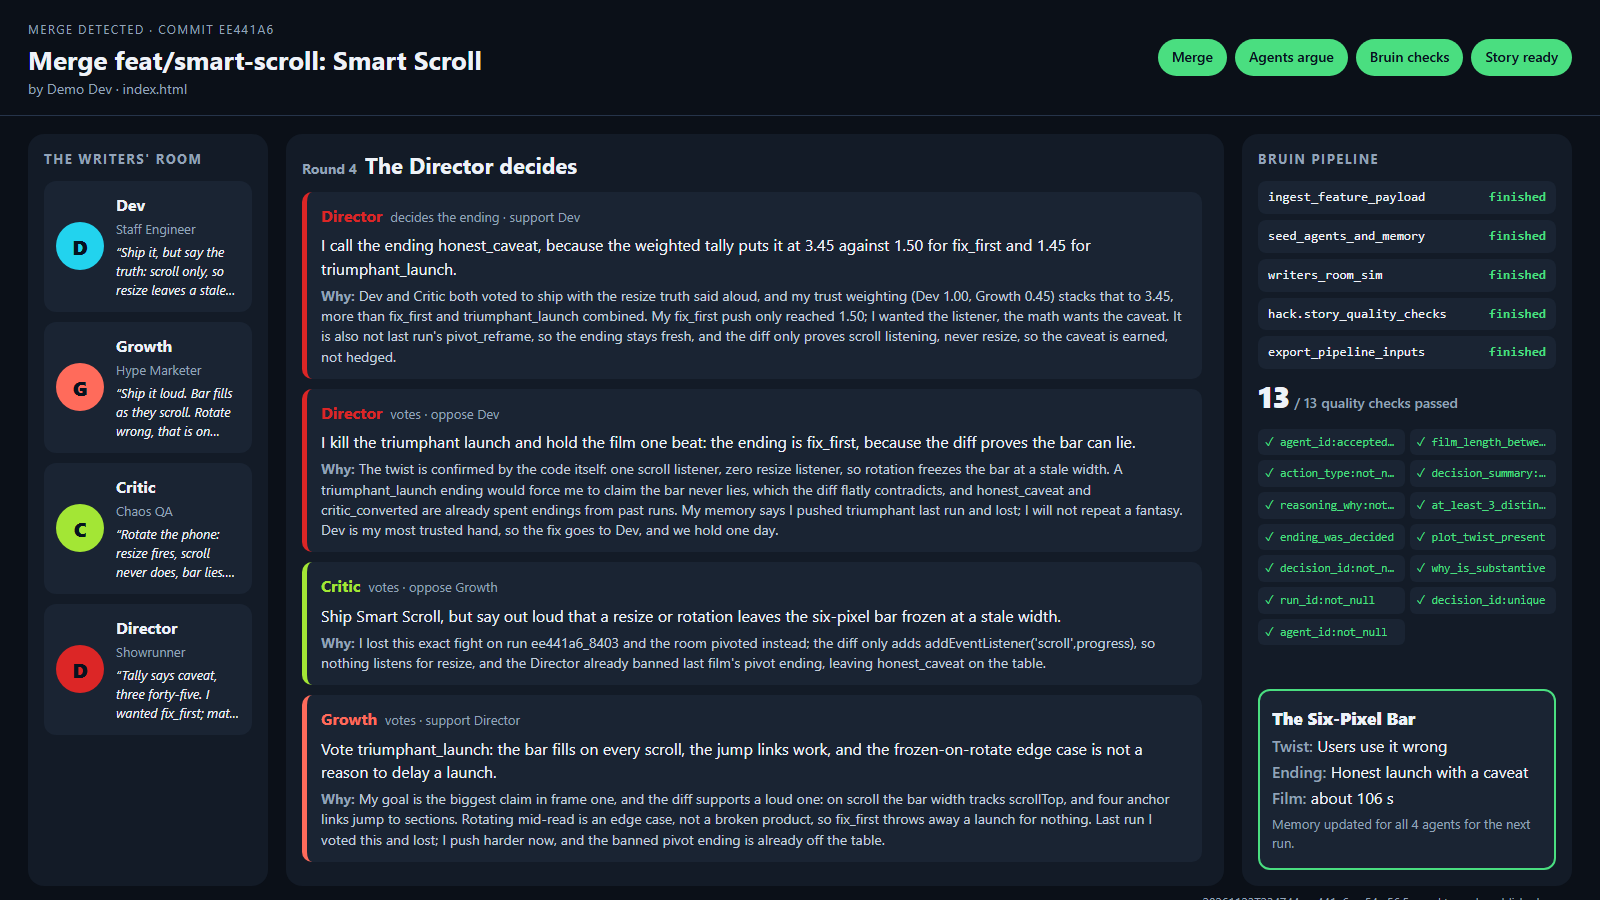
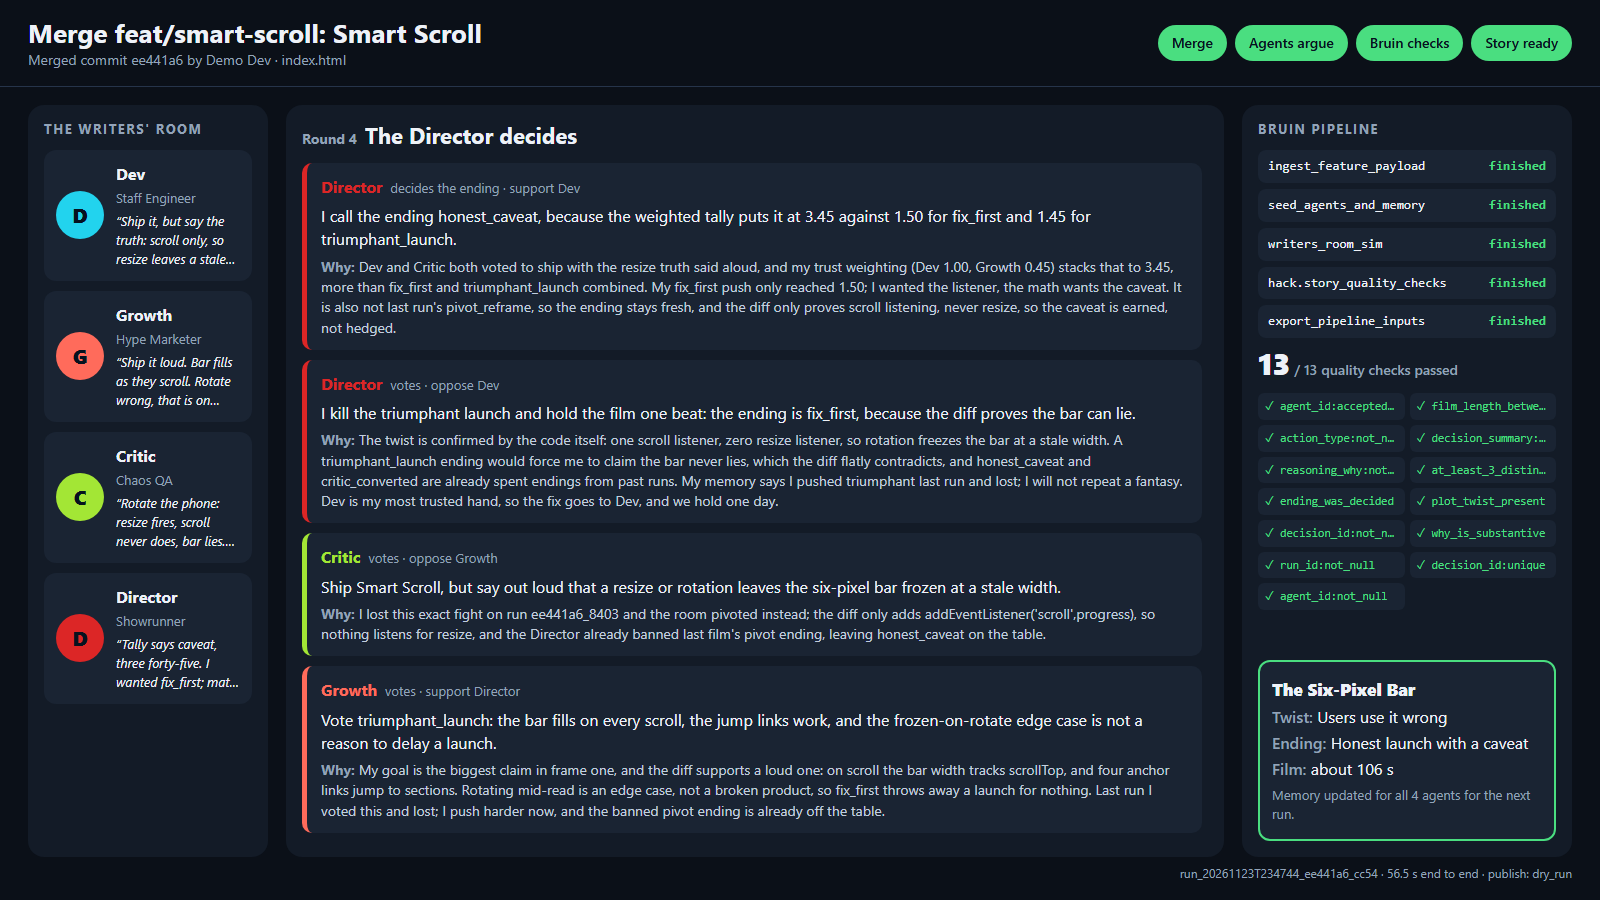
fix(demo): live screen header without kicker label, explicit line heights
Design-check findings: removed the uppercase label above the title (info moved
to the line below), set line-height >= 1.3 on all text. Detector still reported
an unlocated 1.16x tight-leading in live.html; recorded a file-scoped ignore with
the reason in .impeccable/config.json.

diff --git a/demo-app/live.html b/demo-app/live.html
@@ -9,11 +9,12 @@
         --gold:#ffbd69;--ok:#4ade80;--run:#60a5fa;--bad:#f87171;
         --Dev:#22D3EE;--Growth:#FF6B5B;--Critic:#A3E635;--Director:#DC2626}
   *{box-sizing:border-box}
-  body{margin:0;background:var(--bg);color:var(--text);font:16px/1.45 system-ui,Segoe UI,sans-serif;height:100vh;overflow:hidden}
+  html{line-height:1.45}
+  body{margin:0;background:var(--bg);color:var(--text);font-family:system-ui,"Segoe UI",sans-serif;font-size:16px;line-height:1.45;height:100vh;overflow:hidden}
   header{display:flex;align-items:center;gap:20px;padding:16px 28px;border-bottom:1px solid var(--line)}
   .merge{flex:1;min-width:0}
-  .merge small{color:var(--muted);text-transform:uppercase;letter-spacing:.12em;font-size:12px}
-  .merge h1{margin:2px 0 0;font-size:26px;white-space:nowrap;overflow:hidden;text-overflow:ellipsis}
+  h1,h2,.round,.count,.avatar,.idle{line-height:1.3}
+  .merge h1{margin:0;font-size:26px;white-space:nowrap;overflow:hidden;text-overflow:ellipsis}
   .merge .meta{color:var(--muted);font-size:14px}
   .stages{display:flex;gap:8px}
   .stage{padding:8px 14px;border-radius:999px;background:var(--card);color:var(--muted);font-weight:600;font-size:14px;white-space:nowrap}
@@ -51,7 +52,7 @@
 </head>
 <body>
 <header>
-  <div class="merge"><small id="kicker">Waiting for a merge</small><h1 id="title">Merge a feature to start the writers' room</h1><div class="meta" id="meta"></div></div>
+  <div class="merge"><h1 id="title">Waiting for a merge</h1><div class="meta" id="meta">Merge a feature in the demo repo to start the writers' room</div></div>
   <div class="stages">
     <div class="stage" id="s-merge">Merge</div><div class="stage" id="s-agents">Agents argue</div>
     <div class="stage" id="s-checks">Bruin checks</div><div class="stage" id="s-story">Story ready</div>
@@ -87,8 +88,8 @@ function stage(name,cls){$("s-"+name).className="stage "+cls}
 function speak(id){document.querySelectorAll(".agent").forEach(a=>a.classList.remove("speaking"));const a=$("a-"+id);if(a)a.classList.add("speaking")}
 function apply(e){
   if(e.type==="run_start"){resetUI();state.run=e.run_id;$("feed").innerHTML="";
-    $("kicker").textContent="Merge detected · commit "+(e.commit_sha||"").slice(0,7);$("title").textContent=e.title||"";
-    $("meta").textContent=(e.author?"by "+e.author+" · ":"")+(e.changed_files||[]).join(", ");stage("merge","done");stage("agents","on");}
+    $("title").textContent=e.title||"Merge detected";
+    $("meta").textContent="Merged commit "+(e.commit_sha||"").slice(0,7)+(e.author?" by "+e.author:"")+" · "+(e.changed_files||[]).join(", ");stage("merge","done");stage("agents","on");}
   else if(e.type==="round"){$("round").innerHTML=`<em>Round ${e.round}</em>${esc(e.label)}`}
   else if(e.type==="decision"){speak(e.agent_id);if(e.dialogue)$("b-"+e.agent_id).textContent="“"+e.dialogue+"”";
     const twist=e.plot_twist_flag&&e.action_type==="propose_twist";
